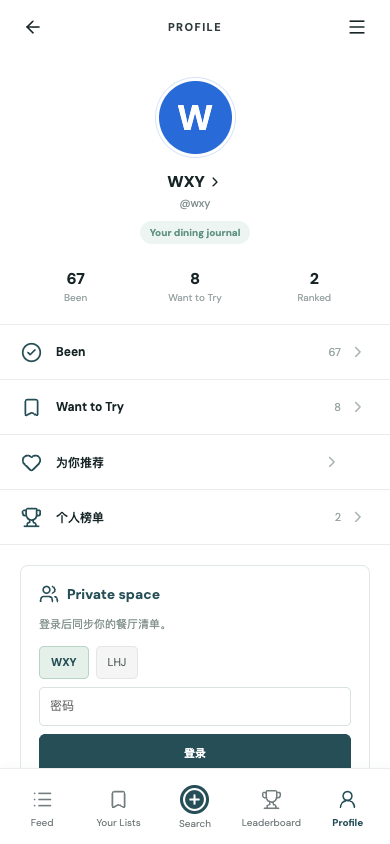
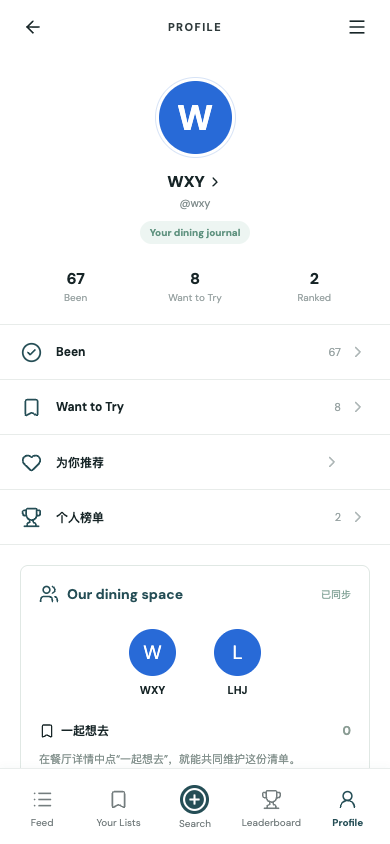
fix: require first-screen login before personal pages

Changed region(s): [[0.0923, 0.6777, 0.9231, 0.9242], [0.5538, 0.7393, 0.6769, 0.8318], [0.8308, 0.6777, 0.8923, 0.7085]]

diff --git a/src/App.tsx b/src/App.tsx
@@ -10,6 +10,7 @@ import type { Restaurant } from './data/restaurants';
 import { formattedVisitDate, imageUrl, regionName, regions, restaurants } from './data/restaurants';
 import { useFoodState, type FoodStatus, type FoodStateController } from './state/useFoodState';
 import { useSharing, type SharingController } from './state/useSharing';
+import { LoginScreen, SessionScreen } from './components/LoginScreen';
 import { SharingPanel } from './components/SharingPanel';
 import { LocalPhotos, VisitTimeline } from './components/VisitTimeline';
 import { RankingFlow } from './components/RankingFlow';
@@ -86,6 +87,7 @@ function App() {
   const [editingName, setEditingName] = useState(false);
   const food = useFoodState(restaurants);
   const sharing = useSharing(food);
+  useEffect(()=>{setRatingId(null);setFilterOpen(false);setEditingName(false);setActiveId(null);setToast('');},[sharing.userId]);
   const appliedCloudName = useRef<string | null>(null);
   useEffect(() => {
     const member = sharing.members.find(m => m.user_id === sharing.userId);
@@ -157,6 +159,13 @@ function App() {
   const detail = route.id ? restaurants.find(r => r.id === route.id) : null;
   const page = route.page === 'detail' && !detail ? 'feed' : route.page;
 
+  if(!sharing.authReady)return <SessionScreen message="正在恢复登录状态…"/>;
+  if(!sharing.userId)return <LoginScreen sharing={sharing} onSuccess={()=>navTo('feed')}/>;
+  if(!sharing.accountName)return <SessionScreen message="" error="当前账号无法访问" onSignOut={()=>void sharing.signOut()}/>;
+  if(sharing.loading||sharing.loadedUserId!==sharing.userId)return <SessionScreen message="正在载入你的记录…" error={sharing.error} onRetry={()=>void sharing.reloadCloud()} onSignOut={()=>void sharing.signOut()}/>;
+  const displayName=sharing.members.find(member=>member.user_id===sharing.userId)?.display_name||sharing.accountName;
+  if(!sharing.space)return <main className="login-screen"><div className="login-content"><span className="brand">beli</span><SharingPanel sharing={sharing} name={displayName} onOpen={()=>{}}/></div></main>;
+
   return <div className="app-shell">
     <aside className="desktop-rail">
       <div className="rail-logo">beli</div>
@@ -164,7 +173,7 @@ function App() {
       <p>Your favorite restaurants, ranked.</p>
     </aside>
     <main className={`app-main page-${page}`}>
-      {page === 'feed' && <FeedPage name={profileName} food={food} getStatus={food.getStatus} onOpen={r => navTo('detail', r.id)} onSearch={() => navTo('search')} onList={() => navTo('lists')} onToast={setToast} />}
+      {page === 'feed' && <FeedPage name={displayName} food={food} getStatus={food.getStatus} onOpen={r => navTo('detail', r.id)} onSearch={() => navTo('search')} onList={() => navTo('lists')} onToast={setToast} />}
       {page === 'lists' && <>
         <TopBar title={<span className="eyebrow">MY LISTS</span>} right={<><button className="icon-button" onClick={share} aria-label="分享列表"><Share2 size={19} /></button><button className="icon-button" onClick={() => setFilterOpen(true)} aria-label="更多筛选"><Menu size={21} /></button></>} />
         <div className="lists-heading"><button className="heading-dropdown" onClick={() => setFilterOpen(true)}>Restaurants <ChevronDown size={18} /></button><span className="list-count">{sortedFiltered.length} 家</span></div>
@@ -193,8 +202,8 @@ function App() {
       </>}
       {page === 'search' && <SearchPage query={query} onQuery={setQuery} onOpen={r => navTo('detail', r.id)} getStatus={food.getStatus} getScore={food.getScore} onRate={openRating} />}
       {page === 'rank' && <RankPage ranked={food.ranked} totalBeen={statusCount.been} onOpen={r => navTo('detail', r.id)} onExplore={() => navTo('lists')} onCompare={() => { const first = food.ranked[0]; if (first) openRating(first.restaurant, 'rerank'); }} onUndo={food.undoComparison} hasComparisons={food.comparisonHistory.length > 0} />}
-      {page === 'profile' && <ProfilePage name={profileName} editing={editingName} onEdit={setEditingName} onName={setProfileName} onSave={() => { const value = profileName.trim() || 'WXY'; setProfileName(value); localStorage.setItem('beli-study-profile-name', value); if (sharing.space) void sharing.updateName(value).catch(() => setToast('名字尚未同步，请重试')); setEditingName(false); }} counts={statusCount} rated={food.ranked.length} onTab={tab => { setListTab(tab); navTo('lists'); }} onRank={() => navTo('rank')} onReset={() => { if (window.confirm('清除本机保存的去过/想去、评分和比较记录？')) food.reset(); }} />}
-      {page === 'profile' && <SharingPanel sharing={sharing} name={profileName} onOpen={r => navTo('detail', r.id)} />}
+      {page === 'profile' && <ProfilePage name={editingName?profileName:displayName} editing={editingName} onEdit={setEditingName} onName={setProfileName} onSave={() => { const value = profileName.trim() || 'WXY'; setProfileName(value); localStorage.setItem('beli-study-profile-name', value); if (sharing.space) void sharing.updateName(value).catch(() => setToast('名字尚未同步，请重试')); setEditingName(false); }} counts={statusCount} rated={food.ranked.length} onTab={tab => { setListTab(tab); navTo('lists'); }} onRank={() => navTo('rank')} onReset={() => { if (window.confirm('清除本机保存的去过/想去、评分和比较记录？')) food.reset(); }} />}
+      {page === 'profile' && <SharingPanel sharing={sharing} name={displayName} onOpen={r => navTo('detail', r.id)} />}
       {page === 'detail' && detail && <DetailPage food={food} sharing={sharing} onToast={setToast} r={detail} status={food.getStatus(detail.id)} score={food.getScore(detail.id)} onBack={() => { if (window.history.length > 1) window.history.back(); else navTo('lists'); }} onStatus={status => food.setStatus(detail.id, status)} onRate={() => openRating(detail)} onRerank={() => openRating(detail, 'rerank')} onShare={share} />}
     </main>
     <BottomNav page={page} />
@@ -231,7 +240,7 @@ function FeedPage({ name, food, getStatus, onOpen, onSearch, onList, onToast }: 
     <button className="search-field fake-input" onClick={onSearch}><Search size={18} /><span>Search restaurant, cuisine, occasion</span></button>
     <div className="feed-pills"><button onClick={onList}><Compass size={15} /> 探索列表</button><button onClick={() => document.getElementById('your-feed')?.scrollIntoView({ behavior: 'smooth' })}><Clock3 size={15} /> 最近记录</button><button onClick={onList}><Bookmark size={15} /> 想去</button></div>
     <section className="feed-section"><div className="section-head"><h2>FEATURED LISTS</h2><button onClick={onList}>See all <ChevronRight size={13} /></button></div><div className="featured-scroll">{featured.map(f => { const first = f.data.find(r => r.coverUrl); return <button className={`featured-card ${f.color}`} key={f.label} onClick={onList}>{first?.coverUrl && <img src={first.coverUrl} alt="" loading="lazy" />}<div className="featured-shade" /><strong>{f.label}</strong><span>{f.sub}</span></button>; })}</div></section>
-    <section className="feed-section feed-diary" id="your-feed"><div className="section-head"><h2>YOUR FEED</h2></div>{Object.entries(food.snapshot.visits).flatMap(([id, visits]) => visits.map(visit => ({ visit, r: restaurants.find(r => r.id === id)! }))).sort((a,b) => b.visit.recordedAt.localeCompare(a.visit.recordedAt)).map(({visit,r}) => <article className="feed-post" key={visit.id}><button className="post-head" onClick={() => onOpen(r)}><span className="mini-avatar">{name.charAt(0).toUpperCase()}</span><span><strong>又去了 {r.brand}</strong><small>{visit.branch || r.actualCity}</small></span><ChevronRight size={17}/></button><LocalPhotos ids={visit.photoIds} label={r.displayName}/>{visit.notes && <p className="post-review">{visit.notes}</p>}{visit.dishes.filter(Boolean).length > 0 && <p className="post-dishes"><strong>Favorite Dishes:</strong> {visit.dishes.filter(Boolean).join("、")}</p>}<div className="post-footer"><span>{visit.visitedAt || "日期未填写"}</span></div></article>)}{visited.slice(0, 24).map(r => <article className="feed-post" key={r.id}><button className="post-head" onClick={() => onOpen(r)}><span className="mini-avatar">{name.charAt(0).toUpperCase()}</span><span><strong>我记录了 {r.brand}</strong><small><InfoLine r={r} /></small></span><ChevronRight size={17} /></button>{r.images.length > 0 && <PhotoCarousel className="feed-gallery" images={r.images} label={r.displayName} onOpen={index => setGallery({ restaurant: r, index })} />}{r.reviewText && <p className="post-review"><strong>Notes:</strong> {r.reviewText}</p>}{r.dishes.length > 0 && <p className="post-dishes"><strong>Favorite Dishes:</strong> {r.dishes.map(d => d.name).join('、')}</p>}<div className="post-footer"><span><Heart size={18} /> <Share2 size={18} /></span><span>{formattedVisitDate(r) || '访问日期未记录'}</span></div></article>)}</section>
+    <section className="feed-section feed-diary" id="your-feed"><div className="section-head"><h2>YOUR FEED</h2></div>{Object.entries(food.snapshot.visits).flatMap(([id, visits]) => visits.map(visit => ({ visit, r: restaurants.find(r => r.id === id)! }))).sort((a,b) => b.visit.recordedAt.localeCompare(a.visit.recordedAt)).map(({visit,r}) => <article className="feed-post" key={visit.id}><button className="post-head" onClick={() => onOpen(r)}><span className="mini-avatar">{name.charAt(0).toUpperCase()}</span><span><strong>{name} 又去了 {r.brand}</strong><small>{visit.branch || r.actualCity}</small></span><ChevronRight size={17}/></button><LocalPhotos ids={visit.photoIds} label={r.displayName}/>{visit.notes && <p className="post-review">{visit.notes}</p>}{visit.dishes.filter(Boolean).length > 0 && <p className="post-dishes"><strong>Favorite Dishes:</strong> {visit.dishes.filter(Boolean).join("、")}</p>}<div className="post-footer"><span>{visit.visitedAt || "日期未填写"}</span></div></article>)}{visited.slice(0, 24).map(r => <article className="feed-post" key={r.id}><button className="post-head" onClick={() => onOpen(r)}><span className="mini-avatar">{name.charAt(0).toUpperCase()}</span><span><strong>{name} 记录了 {r.brand}</strong><small><InfoLine r={r} /></small></span><ChevronRight size={17} /></button>{r.images.length > 0 && <PhotoCarousel className="feed-gallery" images={r.images} label={r.displayName} onOpen={index => setGallery({ restaurant: r, index })} />}{r.reviewText && <p className="post-review"><strong>Notes:</strong> {r.reviewText}</p>}{r.dishes.length > 0 && <p className="post-dishes"><strong>Favorite Dishes:</strong> {r.dishes.map(d => d.name).join('、')}</p>}<div className="post-footer"><span><Heart size={18} /> <Share2 size={18} /></span><span>{formattedVisitDate(r) || '访问日期未记录'}</span></div></article>)}</section>
     {gallery && <PhotoViewer images={gallery.restaurant.images} label={gallery.restaurant.displayName} initialIndex={gallery.index} onClose={() => setGallery(null)} />}
   </>;
 }

diff --git a/src/state/useSharing.ts b/src/state/useSharing.ts
@@ -11,6 +11,8 @@ interface Space { id: string; name: string; owner_id: string }
 interface SharedWant { restaurant_id: string; added_by: string }
 export function useSharing(food: FoodStateController) {
   const [userId,setUserId]=useState<string|null>(null);
+  const [authReady,setAuthReady]=useState(false);
+  const [loadedUserId,setLoadedUserId]=useState<string|null>(null);
   const [accountName,setAccountName]=useState<string>('');
   const [space,setSpace]=useState<Space|null>(null);
   const [members,setMembers]=useState<Member[]>([]);
@@ -21,6 +23,7 @@ export function useSharing(food: FoodStateController) {
   const [hasLocalBackup,setHasLocalBackup]=useState(false);
   const foodRef=useRef(food);foodRef.current=food;
   const identityEpoch=useRef(0);
+  const authIdentity=useRef<string|null>(null);
   const [status,setStatus]=useState('');
   const [realtimeStatus,setRealtimeStatus]=useState('');
   const [error,setError]=useState('');
@@ -51,7 +54,7 @@ export function useSharing(food: FoodStateController) {
     return cleanRows;
   },[photoTransfer]);
   const loadSpace=useCallback(async(uid:string)=>{
-    if(!client)return;setReady(false);setLoading(true);setError('');
+    if(!client)return;setReady(false);setLoadedUserId(null);setLoading(true);setError('');
     const epoch=++identityEpoch.current;
     try{
     const previousOwner=localStorage.getItem('beli-food-owner');
@@ -67,13 +70,13 @@ export function useSharing(food: FoodStateController) {
     }
       const {data:membership,error}=await client.from('beli_members').select('space_id').eq('user_id',uid).maybeSingle();if(error)throw error;
       if(epoch!==identityEpoch.current)return;
-      if(!membership){setSpace(null);setMembers([]);return;}
+      if(!membership){setSpace(null);setMembers([]);setLoadedUserId(uid);return;}
       const {data,error:spaceError}=await client.from('beli_spaces').select('id,name,owner_id').eq('id',membership.space_id).single();if(spaceError)throw spaceError;
       if(epoch!==identityEpoch.current)return;
       const room=data as Space;setSpace(room);const rows=await refresh(room.id);if(epoch!==identityEpoch.current)return;const own=rows?.find(r=>r.user_id===uid);
       if(own){await photoTransfer(own.payload,room.id,uid,false);if(epoch!==identityEpoch.current)return;try{if(JSON.stringify(local)!==JSON.stringify(own.payload))localStorage.setItem(`beli-before-cloud-backup:${uid}`,JSON.stringify(local));setHasLocalBackup(!!localStorage.getItem(`beli-before-cloud-backup:${uid}`));}catch{/* no overwrite of cloud data */}restore(own.payload);lastSynced.current=JSON.stringify(own.payload);revision.current=own.revision;}
       else{revision.current=0;lastSynced.current='';if(room.owner_id!==uid)restore(emptySnapshot('empty'));}
-      conflict.current=false;setStatus(own?'已同步':'准备首次同步');setReady(true);
+      conflict.current=false;setStatus(own?'已同步':'准备首次同步');setReady(true);setLoadedUserId(uid);
     }catch(err){if(epoch===identityEpoch.current)setError(err instanceof Error?err.message:'连接失败');}
     finally{if(epoch===identityEpoch.current)setLoading(false);}
   // Only identity and explicit reloads load the cloud snapshot; local edits must never trigger a download.
@@ -81,11 +84,17 @@ export function useSharing(food: FoodStateController) {
   },[refresh,restore,photoTransfer]);
   useEffect(()=>{
     const hash=decodeURIComponent(location.hash);if(hash.startsWith('#/join/')){const token=hash.slice(7);sessionStorage.setItem('beli-invite',token);setInvite(token);location.hash='/profile';}
-    if(!client)return;
-    client.auth.getSession().then(({data})=>{setUserId(data.session?.user.id||null);setAccountName(identityForEmail(data.session?.user.email)?.name||'');});
-    const {data}=client.auth.onAuthStateChange((_event,session)=>{setUserId(session?.user.id||null);setAccountName(identityForEmail(session?.user.email)?.name||'');});return()=>data.subscription.unsubscribe();
+    if(!client){setAuthReady(true);return;}
+    let cancelled=false;
+    const applySession=(session:{user:{id:string;email?:string}}|null)=>{
+      if(cancelled)return;const uid=session?.user.id||null;
+      if(authIdentity.current!==uid){authIdentity.current=uid;identityEpoch.current++;setLoadedUserId(null);setReady(false);}
+      setUserId(uid);setAccountName(identityForEmail(session?.user.email)?.name||'');setAuthReady(true);
+    };
+    client.auth.getSession().then(({data,error})=>{if(cancelled)return;if(error)setError('登录状态已失效，请重新登录。');applySession(data.session);}).catch(()=>{if(!cancelled){setError('暂时无法读取登录状态，请重试。');setAuthReady(true);}});
+    const {data}=client.auth.onAuthStateChange((_event,session)=>applySession(session));return()=>{cancelled=true;data.subscription.unsubscribe();};
   },[]);
-  useEffect(()=>{if(userId)void loadSpace(userId);else{setReady(false);setSpace(null);setMembers([]);setStates([]);setWants([]);}},[userId,loadSpace]);
+  useEffect(()=>{if(userId)void loadSpace(userId);else{setReady(false);setLoadedUserId(null);setSpace(null);setMembers([]);setStates([]);setWants([]);}},[userId,loadSpace]);
   useEffect(()=>{
     if(!client||!space)return;
     let cancelled=false;let channel:ReturnType<typeof client.channel>|undefined;
@@ -112,7 +121,7 @@ export function useSharing(food: FoodStateController) {
       catch(err){const message=err instanceof Error?err.message:String((err as {message?:string})?.message||'同步失败');if(message.includes('SYNC_CONFLICT')){conflict.current=true;setReady(false);setError('另一台设备已有更新，请先载入云端记录。');}else setError(message);setStatus('同步未完成');}
     });},700);return()=>clearTimeout(timer);
   },[food.snapshot,space,userId,ready,tick,photoTransfer,refresh]);
-  const signIn=async(name:IdentityName,password:string)=>{if(!client)return;const identity=identities.find(item=>item.name===name);if(!identity)throw new Error('请选择身份');const {error}=await client.auth.signInWithPassword({email:identity.email,password});if(error)throw new Error((error.code==='invalid_credentials'||/invalid login credentials/i.test(error.message))?'密码不正确，请重试':'暂时无法登录，请稍后重试');};
+  const signIn=async(name:IdentityName,password:string)=>{if(!client)throw new Error('暂时无法连接，请稍后重试');setError('');const identity=identities.find(item=>item.name===name);if(!identity)throw new Error('请选择身份');const {error}=await client.auth.signInWithPassword({email:identity.email,password});if(error)throw new Error((error.code==='invalid_credentials'||/invalid login credentials/i.test(error.message))?'密码不正确，请重试':'暂时无法登录，请稍后重试');};
   const changePassword=async(password:string)=>{if(!client)return;const {error}=await client.auth.updateUser({password});if(error)throw error;};
   const updateName=async(name:string)=>{if(!client||!space)return;const {error}=await client.rpc('beli_update_name',{member_name:name});if(error)throw error;await refresh(space.id);};
   const sendLink=async(email:string)=>{if(!client)return;const {error}=await client.auth.signInWithOtp({email,options:{emailRedirectTo:location.origin+import.meta.env.BASE_URL}});if(error)throw error;setStatus('登录链接已发送，请查收邮件');};
@@ -121,6 +130,16 @@ export function useSharing(food: FoodStateController) {
   const inviteLink=async()=>{if(!client||!space)return '';const {data,error}=await client.rpc('beli_rotate_invite',{target_space:space.id});if(error)throw error;const link=`${location.origin}${import.meta.env.BASE_URL}#/join/${data}`;await navigator.clipboard.writeText(link);return link;};
   const toggleWant=async(id:string)=>{if(!client||!space||!userId)return;const exists=wants.some(row=>row.restaurant_id===id);const result=exists?await client.from('beli_wants').delete().eq('space_id',space.id).eq('restaurant_id',id):await client.from('beli_wants').insert({space_id:space.id,restaurant_id:id,added_by:userId});if(result.error)throw result.error;await refresh(space.id);};
   const downloadLocalBackup=()=>{if(!userId)return;const saved=localStorage.getItem(`beli-before-cloud-backup:${userId}`);if(!saved)return;const url=URL.createObjectURL(new Blob([saved],{type:'application/json'}));const link=document.createElement('a');link.href=url;link.download=`beli-${accountName||'records'}-backup.json`;link.click();setTimeout(()=>URL.revokeObjectURL(url),1000);};
-  return{configured:!!client,userId,accountName,space,members,states,wants,status:realtimeStatus||status,error,invite,ready,loading,hasLocalBackup,downloadLocalBackup,signIn,changePassword,updateName,sendLink,create,join,inviteLink,toggleWant,retry:()=>setTick(v=>v+1),reloadCloud:()=>userId?loadSpace(userId):Promise.resolve(),signOut:async()=>{identityEpoch.current++;setReady(false);const uid=userId;if(uid)localStorage.setItem(`beli-food-cache:${uid}`,JSON.stringify(foodRef.current.snapshot));await queue.current;await client?.auth.signOut({scope:'local'});restore(emptySnapshot('empty'));localStorage.removeItem('beli-food-owner');}};
+  const signOut=async()=>{
+    const uid=userId;const wasReady=ready;
+    identityEpoch.current++;setReady(false);setLoadedUserId(null);
+    try{
+      if(uid)localStorage.setItem(`beli-food-cache:${uid}`,JSON.stringify(foodRef.current.snapshot));
+      await queue.current;const result=await client?.auth.signOut({scope:'local'});
+      if(result?.error)throw result.error;
+      restore(emptySnapshot('empty'));localStorage.removeItem('beli-food-owner');
+    }catch{setError('退出未完成，请检查网络或本机存储后重试。');setLoadedUserId(uid);setReady(wasReady);}
+  };
+  return{configured:!!client,authReady,loadedUserId,userId,accountName,space,members,states,wants,status:realtimeStatus||status,error,invite,ready,loading,hasLocalBackup,downloadLocalBackup,signIn,changePassword,updateName,sendLink,create,join,inviteLink,toggleWant,retry:()=>setTick(v=>v+1),reloadCloud:()=>userId?loadSpace(userId):Promise.resolve(),signOut};
 }
 export type SharingController=ReturnType<typeof useSharing>;

diff --git a/src/components/SharingPanel.tsx b/src/components/SharingPanel.tsx
@@ -2,16 +2,15 @@ import { useEffect, useState } from 'react';
 import { Bookmark, CheckCircle2, Copy, LockKeyhole, Users, ChevronRight } from 'lucide-react';
 import { restaurants, type Restaurant } from '../data/restaurants';
 import { normalizeSnapshot, rankedFromSnapshot, statusFromSnapshot } from '../state/useFoodState';
-import { identities, type IdentityName } from '../state/identities';
 import { VisitTimeline } from './VisitTimeline';
 import type { SharingController } from '../state/useSharing';
 
 export function SharingPanel({ sharing, name, onOpen }: { sharing: SharingController; name: string; onOpen: (restaurant: Restaurant) => void }) {
-  const [identity,setIdentity]=useState<IdentityName>('WXY');const [password,setPassword]=useState('');const [newPassword,setNewPassword]=useState('');const [memberName,setMemberName]=useState(name);const [token,setToken]=useState(sharing.invite);const [busy,setBusy]=useState(false);const [message,setMessage]=useState('');const [error,setError]=useState('');const [partnerTab,setPartnerTab]=useState<'been'|'want'|'rank'>('been');
+  const [newPassword,setNewPassword]=useState('');const [memberName,setMemberName]=useState(name);const [token,setToken]=useState(sharing.invite);const [busy,setBusy]=useState(false);const [message,setMessage]=useState('');const [error,setError]=useState('');const [partnerTab,setPartnerTab]=useState<'been'|'want'|'rank'>('been');
   useEffect(()=>{if(sharing.accountName)setMemberName(sharing.accountName);},[sharing.accountName]);
   const run=async(fn:()=>Promise<unknown>,success='')=>{setBusy(true);setError('');try{await fn();setMessage(success);}catch(err){setError((err as {message?:string})?.message||'操作未完成，请重试');}finally{setBusy(false);}};
   if(!sharing.configured)return <section className="sharing-panel"><div className="sharing-title"><Users size={20}/><h2>Private space</h2><span><LockKeyhole size={12}/>仅二人</span></div><p>共享清单，各自排名。</p><div className="sharing-unavailable">共享空间尚未开通</div></section>;
-  if(!sharing.userId)return <section className="sharing-panel"><div className="sharing-title"><Users size={20}/><h2>Private space</h2></div><p>登录后同步你的餐厅清单。</p><form onSubmit={e=>{e.preventDefault();void run(()=>sharing.signIn(identity,password),'已登录');}}><div className="choice-row" role="group" aria-label="选择身份">{identities.map(person=><button type="button" key={person.name} className={identity===person.name?'selected':''} aria-pressed={identity===person.name} onClick={()=>{setIdentity(person.name);setPassword('');setError('');}}>{person.name}</button>)}</div><input type="password" required autoComplete="current-password" value={password} onChange={e=>setPassword(e.target.value)} placeholder="密码" aria-label="登录密码"/><button className="primary full" disabled={busy}>登录</button></form>{message&&<p className="sharing-message">{message}</p>}{error&&<p className="form-error">{error}</p>}</section>;
+  if(!sharing.userId)return null;
   if(sharing.loading)return <section className="sharing-panel" aria-busy="true"><p>正在载入你的记录…</p></section>;
   if(!sharing.space)return <section className="sharing-panel"><div className="sharing-title"><Users size={20}/><h2>建立二人空间</h2></div><label>你的名字<input value={memberName} onChange={e=>setMemberName(e.target.value)} maxLength={40}/></label><button className="primary full" disabled={busy||!memberName.trim()} onClick={()=>void run(()=>sharing.create(memberName),'空间已创建')}>创建空间</button><div className="sharing-divider">或使用邀请加入</div><input aria-label="邀请码" value={token||sharing.invite} onChange={e=>setToken(e.target.value)} placeholder="粘贴邀请码"/><button className="sharing-outline full" disabled={busy||!(token||sharing.invite).trim()||!memberName.trim()} onClick={()=>void run(()=>sharing.join(token||sharing.invite,memberName),'已加入空间')}>加入空间</button><p className="subtle">加入时会建立你的独立记录，不会复制对方的去过和评分。</p>{error&&<p className="form-error">{error}</p>}{sharing.error&&<p className="form-error">{sharing.error}</p>}<button className="text-button" onClick={()=>void sharing.signOut()}>退出登录</button></section>;
   const own=sharing.members.find(m=>m.user_id===sharing.userId);const partner=sharing.members.find(m=>m.user_id!==sharing.userId);const raw=sharing.states.find(row=>row.user_id===partner?.user_id)?.payload;const partnerState=raw?normalizeSnapshot(raw,new Set(restaurants.map(r=>r.id))):null;const partnerRank=partnerState?rankedFromSnapshot(partnerState,restaurants):[];

diff --git a/src/components/LoginScreen.tsx b/src/components/LoginScreen.tsx
@@ -1,0 +1,39 @@
+import { useState } from 'react';
+import { ArrowRight, Check, Eye, EyeOff } from 'lucide-react';
+import { identities, type IdentityName } from '../state/identities';
+import type { SharingController } from '../state/useSharing';
+
+export function LoginScreen({ sharing, onSuccess }: { sharing: SharingController; onSuccess: () => void }) {
+  const [identity, setIdentity] = useState<IdentityName>('WXY');
+  const [password, setPassword] = useState('');
+  const [visible, setVisible] = useState(false);
+  const [busy, setBusy] = useState(false);
+  const [error, setError] = useState('');
+  return <main className="login-screen">
+    <div className="login-content">
+      <header className="login-brand"><span className="brand">beli</span><p>共享清单，各自排名。</p></header>
+      <form className="login-form" onSubmit={async event => {
+        event.preventDefault(); if (busy) return;
+        setBusy(true); setError('');
+        try { await sharing.signIn(identity, password); setPassword(''); onSuccess(); }
+        catch (err) { setError(err instanceof Error ? err.message : '暂时无法登录，请稍后重试'); }
+        finally { setBusy(false); }
+      }}>
+        <h1>选择你的身份</h1>
+        <div className="login-identities" role="group" aria-label="选择身份">
+          {identities.map(person => <button type="button" key={person.name} aria-label={person.name} disabled={busy} aria-pressed={identity === person.name} className={identity === person.name ? 'selected' : ''} onClick={() => { setIdentity(person.name); setPassword(''); setError(''); }}>
+            <span className="login-avatar">{person.name[0]}</span><strong>{person.name}</strong><span className="login-check" aria-hidden="true">{identity === person.name && <Check size={15}/>}</span>
+          </button>)}
+        </div>
+        <label htmlFor="login-password">密码</label>
+        <div className="login-password-field"><input id="login-password" name="password" type={visible ? 'text' : 'password'} autoComplete="current-password" required value={password} disabled={busy || !sharing.configured} onChange={event => setPassword(event.target.value)} placeholder="输入密码" aria-label="登录密码" aria-describedby={error ? 'login-error' : undefined}/><button type="button" className="icon-button" aria-label={visible ? '隐藏密码' : '显示密码'} aria-pressed={visible} onClick={() => setVisible(value => !value)}>{visible ? <EyeOff size={18}/> : <Eye size={18}/>}</button></div>
+        {(error || sharing.error || !sharing.configured) && <p id="login-error" role="alert" className="form-error">{error || sharing.error || '暂时无法连接，请稍后重试。'}</p>}
+        <button className="primary login-submit" disabled={busy || !sharing.configured}>{busy ? '正在登录…' : '登录'}<ArrowRight size={17}/></button>
+      </form>
+    </div>
+  </main>;
+}
+
+export function SessionScreen({ message, error, onRetry, onSignOut }: { message: string; error?: string; onRetry?: () => void; onSignOut?: () => void }) {
+  return <main className="login-screen"><div className="login-content login-status"><span className="brand">beli</span><p role={error ? 'alert' : 'status'}>{error || message}</p>{error && onRetry && <button className="primary full" onClick={onRetry}>重新连接</button>}{onSignOut && <button className="text-button" onClick={onSignOut}>退出登录</button>}</div></main>;
+}

diff --git a/src/styles.css b/src/styles.css
@@ -383,3 +383,32 @@ h1,h2,h3,p { margin-top: 0; }
 .restaurant-row:not(.compact) .row-actions, .search-row .row-actions { padding-left: 16px; }
 .sentiment-options button > span { width: 56px; height: 56px; }
 .account-password { margin-top: 20px; color: #6c8b7c; font-size: 11px; }.account-password summary { cursor: pointer; }
+
+/* Authentication is a full first screen; personal routes mount only after identity hydration. */
+.login-screen { min-height:100dvh; display:grid; place-items:center; padding:52px 24px; background:#fafbf9; }
+.login-content { width:100%; max-width:360px; animation:login-enter .25s ease-out both; }
+.login-brand { text-align:center; margin-bottom:52px; }
+.login-brand .brand { display:block; font-size:58px; }
+.login-brand p { margin:19px 0 0; color:var(--muted); font-size:13px; letter-spacing:.025em; }
+.login-form h1 { margin-bottom:22px; color:var(--ink); font-size:21px; font-weight:600; letter-spacing:-.035em; }
+.login-identities { display:grid; grid-template-columns:1fr 1fr; gap:12px; margin-bottom:29px; }
+.login-identities > button { position:relative; display:flex; align-items:center; gap:12px; min-height:82px; padding:16px; background:white; border:1px solid #dee5e1; border-radius:10px; transition:border-color .15s,background .15s; }
+.login-identities > button.selected { background:#eef5f1; border-color:var(--teal); }
+.login-avatar { display:grid; place-items:center; flex-shrink:0; width:36px; height:36px; border-radius:50%; color:white; background:#286ad7; font-size:19px; font-weight:600; }
+.login-identities strong { font-size:14px; }
+.login-check { position:absolute; right:7px; top:7px; height:15px; color:var(--teal); }
+.login-form label { display:block; margin-bottom:9px; font-size:13px; font-weight:600; }
+.login-password-field { display:flex; align-items:center; min-height:52px; background:white; border:1px solid #dce3df; border-radius:7px; padding-right:8px; }
+.login-password-field:focus-within { border-color:var(--teal); outline:2px solid #dceae3; }
+.login-password-field input { width:100%; min-width:0; padding:15px; border:0; outline:none; background:transparent; font-size:16px; }
+.login-password-field input:focus-visible { outline:none; }
+.login-password-field .icon-button { color:var(--muted); flex-shrink:0; }
+.login-form .form-error { margin-top:12px; margin-bottom:0; font-size:12px; }
+.login-submit { display:flex; justify-content:center; align-items:center; gap:10px; width:100%; min-height:52px; margin-top:24px; font-size:14px; }
+.login-submit:disabled,.login-identities button:disabled { cursor:wait; opacity:.65; }
+.login-status { text-align:center; }
+.login-status .brand { display:block; font-size:44px; margin-bottom:26px; }
+.login-status p { color:var(--muted); font-size:13px; line-height:1.7; }
+.login-status .text-button { margin-top:20px; }
+@keyframes login-enter { from { opacity:0; transform:translateY(5px); } to { opacity:1; transform:translateY(0); } }
+@media(prefers-reduced-motion:reduce) { .login-content { animation:none; } .login-identities > button { transition:none; } }

diff --git a/HANDOFF.md b/HANDOFF.md
@@ -10,6 +10,7 @@
 - Supabase Free 项目 `beli-private`，ref `avxxytxplxqfkofqchrn`；WXY 和 LHJ 已创建并加入同一个空间，后续登录直接进入，无须再次创建/邀请。
 - WXY 初始状态保留原数据的 67 Been / 8 Want，个人排名尚无分数；LHJ 初始个人状态为空。没有为生产账号伪造用餐、分数或历史照片。
 - Site URL 与 Redirect URL 均已设置为正式 Pages 地址。
+- 网页第一屏已改为独立登录页；所有路由需先选 WXY/LHJ、输入密码。有效会话自动恢复，载入本人状态前不挂载个人页面和导航。新入口待本轮 Pages 发布验收。
 - 公开注册已关闭，匿名登录关闭。账号采用内部标识 + 云端密码认证，界面只选身份、输入密码，无需邮件验证。
 
 ## 项目与约束
@@ -22,6 +23,8 @@
 产品不展示上游项目名、上游评级或数据工程说明。WXY 为蓝底 W，LHJ 为 L。餐厅 ID 稳定；同一餐厅一份排名，多次用餐各自记录。餐厅/照片不可编造。
 
 ## 本轮修复
+
+0. 独立 LoginScreen 与会话/用户数据加载门禁；Profile 不再承载未登录表单。Feed 标明已登录用户名字。`npm run test:auth` 验证所有未登录 hash 路由及载入期间无个人内容；登录状态由 Supabase 持久会话恢复，不保存密码。
 
 1. 创建者头像由姓名首字母生成，不再要求 WXY 必须先创建；增量迁移 `supabase/migrations/20261023_creator_avatar.sql` 已在线执行成功，原始 setup.sql 同步修正。
 2. 登录先等本人云端记录加载，切换账号按 user ID 分开缓存，旧身份待同步任务失效；退出仅结束当前设备会话并清空当前显示记录。
@@ -43,10 +46,10 @@
 
 ## 下一步 / 剩余边界
 
-1. 本轮代码已成功部署；`qa/cloud-ui-report.json` 的 base 为正式线上地址，在线两账号检查通过。后续只按用户反馈处理具体问题，勿反复给真实账号增加测试记录。
+1. 此前共享修复已成功部署；独立登录入口的本轮发布需等 Actions 成功并复核。`qa/cloud-ui-report.json` 的 base 为正式线上地址，在线两账号检查通过。后续只按用户反馈处理具体问题，勿反复给真实账号增加测试记录。
 2. 手机真机 Safari / Android 体验仍待用户验证。
 3. Beli 同一 build 的详情/弹窗/动效原始证据不全，不能称像素级完整复刻完成。
-4. GitHub Pages 和预置餐厅/照片是公开静态内容；Profile 登录保护的是成员云端数据，不是整个站点访问门禁。
+4. GitHub Pages 和预置餐厅/照片是公开静态内容；应用界面入口已要求登录，成员云端数据由服务端权限保护；GitHub Pages 的静态文件地址仍公开，不能把前端入口等同服务器对所有静态文件的保密。
 5. CI 的上游 Action Node 20 迁移提示和地图大 chunk 提示目前不阻止构建；没有为消除提示盲目更换未知版本。
 
 ## 运行和后续修改
@@ -57,6 +60,7 @@ npm run dev
 npm run check
 npm run data:verify
 npm run test:ui
+npm run test:auth
 VITE_BASE_PATH=/beli-study/ npm run build
 VITE_BASE_PATH=/beli-study/ npm run preview -- --port 4178
 ```

diff --git a/README.md b/README.md
@@ -17,17 +17,18 @@ npm run dev
 ```sh
 npm run check
 npm run test:ui
+npm run test:auth
 npm run build
 npm run preview
 ```
 
-交互测试默认使用本机 Google Chrome；其他环境设置 `CHROME_PATH`。测试使用独立临时浏览器，不改动你正在使用的记录。
+交互测试使用拦截认证/数据库/实时连接的独立服务夹具，不访问生产数据；auth 测试验证未登录路由与加载期间不显示个人内容。真实共享联调单独使用 tests/cloud-ui.mjs。测试默认使用本机 Google Chrome；其他环境设置 `CHROME_PATH`。测试使用独立临时浏览器，不改动你正在使用的记录。
 
 ## 当前边界
 
 - 从只读 `dachitech` 公开投影复制 75 家餐厅与 172 个被引用图片资产，餐厅和照片数据保留原样。36 家有坐标，缺位置的店继续显示在列表中。
 - 新记录、排名和状态默认保存在当前浏览器。新增照片保存在 IndexedDB。
-- 已上线：<https://gummybun0915.github.io/beli-study/>（GitHub Pages，push main 自动部署）。前端已接入 Supabase（beli-private），WXY / LHJ 账号可在 Profile → Private space 用密码登录；**两账号真实登录、独立浏览器共享、权限与账号切换已通过验证**，报告和剩余边界见 [HANDOFF](HANDOFF.md)。
+- 已上线：<https://gummybun0915.github.io/beli-study/>（GitHub Pages，push main 自动部署）。前端已接入 Supabase（beli-private），打开网页先选择 WXY / LHJ 并输入密码，登录状态会保留；Profile 用于共享管理及退出登录；**两账号真实登录、独立浏览器共享、权限与账号切换已通过验证**，报告和剩余边界见 [HANDOFF](HANDOFF.md)。
 - 2026 商店图与 2026-09 实际操作分析用于界面研究；详情页和部分状态没有同一 build 的原始实屏，尚不能声称完整像素级一致。
 - 头像偏好：WXY、蓝底白色 W。产品界面不展示数据工程来源或上游评级体系。
 

diff --git a/docs/07-SHARING-SETUP.md b/docs/07-SHARING-SETUP.md
@@ -13,7 +13,7 @@
 
 ## 现在如何使用
 
-打开正式网站 → Profile → 选择 WXY 或 LHJ → 输入各自已设置的密码。两人已在同一空间，不要重复创建或邀请。
+打开正式网站 → 第一屏选择 WXY 或 LHJ → 输入各自已设置的密码 → 首页。登录状态会保留；Profile 内可退出。两人已在同一空间，不要重复创建或邀请。
 
 以下 Step 1–9 供重建或排查配置时参考。
 
@@ -69,7 +69,7 @@ Publishable key: sb_publishable_……
 | `VITE_SUPABASE_PUBLISHABLE_KEY` | 你的 publishable/anon key |
 
 3. 打开 **Actions**，重新运行 **Deploy Pages** 工作流。
-4. 完成后打开网页，进入 **Profile → Private space**，应从“尚未开通”变为 WXY / LHJ 身份选择和密码输入。
+4. 完成后打开网页，第一屏应为 WXY / LHJ 身份选择和密码输入；成功登录后才显示首页。
 
 本地联调时，复制根目录 `.env.example` 为 `.env.local`，填写相同两项，再重启 `npm run dev`。`.env.local` 不提交到 Git。
 
@@ -85,7 +85,7 @@ Publishable key: sb_publishable_……
 
 ## Step 7 — WXY 创建二人空间
 
-1. WXY 在 App 的 **Profile → Private space** 选择 WXY 并输入密码登录。
+1. WXY 在网页第一屏选择 WXY 并输入密码登录；首次配置时进入 Profile → Private space。
 2. 填名字 WXY，点击 **创建空间**。
 3. 现有个人记录首次同步到自己的云端账号。
 4. 点击 **复制邀请链接**，私下发给另一人。邀请链接会轮换之前未用的邀请。

diff --git a/docs/01-APP-INVENTORY.md b/docs/01-APP-INVENTORY.md
@@ -15,7 +15,8 @@
 | V01 | 再去了一次 | 三种感受、分店、日期、笔记、菜品、照片 | 2026 Pratt 三种感受；重复到访扩展为实现决策 |
 | Q01 | 排名向导 | 比较同感受餐厅，插入有序列表、完成、撤销 | Pratt + Apple 编辑文确认交互概念 |
 | P01 | `#/profile` | WXY / 蓝底 W、计数、清单入口、共享空间 | Apple Profile 层级参考；无虚构社交指标 |
-| P02 | Private space | 邮箱与密码登录、邀请、两成员、共同清单、互看记录 | 新增功能，云端待开通联调 |
+| A01 | 所有未登录路由 | WXY / LHJ 身份、密码、错误提示、记住会话 | 用户指定的独立登录入口；非官方 Beli 登录屏的像素复刻 |
+| P02 | Private space | 邀请、两成员、共同清单、互看记录、退出登录 | 已完成两账号云端实测；登录入口位于打开网页的第一屏 |
 | B01 | `#/rank` | 唯一个人名次、分数、重新排名、撤销 | 算法近似；非 Beli 全站排行榜 |
 
 保留底部五目的地：Feed / Your Lists / Search / Leaderboard / Profile。详情使用 hash 路由，分享和刷新可恢复当前餐厅。记录向导不会在取消时写入排名。

diff --git a/AGENTS.md b/AGENTS.md
@@ -3,6 +3,7 @@
 - 本目录是独立项目。`/Users/jiguang/Desktop/Personal/01_个人项目/dachitech` 永远只读，不进入该目录改文件，不复制密钥和原始私有数据。
 - 实现先看源码，再读 README 与 `docs/00-MASTER-SPEC.md`。数据适配唯一说明在 `docs/04-DATA-MAPPING.md`，参考证据在 `docs/05-SCREENSHOT-MANIFEST.md`。
 - 产品界面不出现 dachitech、大吃特吃、星其林、导入投影或复刻实现说明；这些只写在工程文档。不得删除或改写原数据以达到文案目的。
+- 未登录的所有路由先显示独立登录页；恢复会话及载入本人状态之前，不渲染 Feed、导航或任何个人记录。记住的是 Supabase 会话，不保存密码。
 - WXY 的头像是蓝底白色 W；不是 L。个人评分只由用户操作生成。
 - 餐厅 ID 稳定。多次用餐保留独立 VisitEntry，同一餐厅只占一份个人排名。不得从“常去”推造日期、次数、分店或照片。
 - 新功能检查 `npm run check`、相关交互测试、`npm run build`。云端未配置时不得声称已实现跨设备互通。
